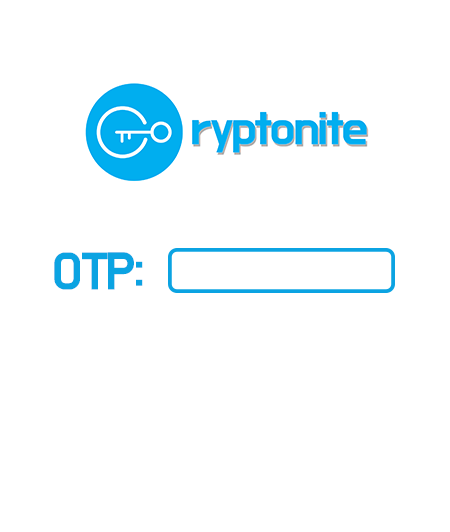
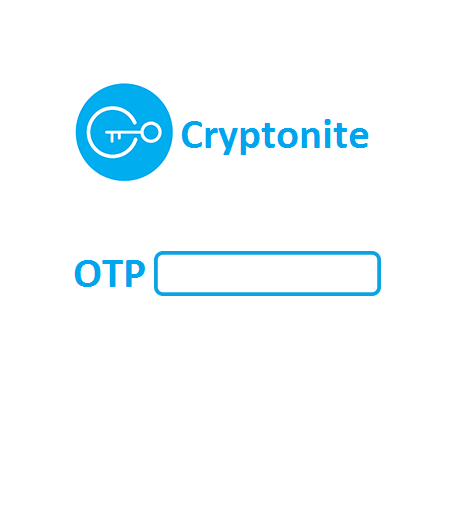
UI UPDATE

Changed region(s): [[0.1556, 0.1504, 0.84, 0.3609], [0.0933, 0.4511, 0.9022, 0.5714], [0.2489, 0.3308, 0.28, 0.3609]]

diff --git a/Cryptonite/src/Client/Client_Receive_OTP.java b/Cryptonite/src/Client/Client_Receive_OTP.java
@@ -73,7 +73,7 @@ public class Client_Receive_OTP extends JFrame{
         
         OTPField = new JTextField();
         OTPField.setText("Type otp number");
-        OTPField.setBounds(158, 247, 254, 50);
+        OTPField.setBounds(140, 244, 254, 50);
         OTPField.setForeground(Color.black);        
         OTPField.setFont(font);
         OTPField.setOpaque(false);
@@ -98,8 +98,8 @@ public class Client_Receive_OTP extends JFrame{
         layeredPane.add(OTPField);
         
         
-        Select = new JButton(new ImageIcon("img/Select.png"));		
-        Select.setPressedIcon(new ImageIcon("img/Selectp.png"));
+        Select = new JButton(new ImageIcon("img/select.png"));		
+        Select.setRolloverIcon(new ImageIcon("img/selectR.png"));
         Select.setBounds(324, 328, 80, 40);
         Select.setBorderPainted(false);
         Select.setFocusPainted(false);
@@ -112,8 +112,8 @@ public class Client_Receive_OTP extends JFrame{
 		 });
         layeredPane.add(Select);
         
-        Check = new JButton(new ImageIcon("img/Check.png"));		
-        Check.setPressedIcon(new ImageIcon("img/Checkp.png"));
+        Check = new JButton(new ImageIcon("img/DOWNLOAD.png"));		
+        Check.setRolloverIcon(new ImageIcon("img/DOWNLOADR.png"));
         Check.setBounds(116, 410, 80, 40);
         Check.setBorderPainted(false);
         Check.setFocusPainted(false);
@@ -126,8 +126,8 @@ public class Client_Receive_OTP extends JFrame{
 		 });
         layeredPane.add(Check);
         
-        Cancel = new JButton(new ImageIcon("img/Cancel.png"));		
-        Cancel.setPressedIcon(new ImageIcon("img/Cancelp.png"));
+        Cancel = new JButton(new ImageIcon("img/_cancel.png"));		
+        Cancel.setRolloverIcon(new ImageIcon("img/_cancelR.png"));
         Cancel.setBounds(254, 410, 80,40);
         Cancel.setBorderPainted(false);
         Cancel.setFocusPainted(false);

diff --git a/Cryptonite/src/Client/Client_Send_OTP.java b/Cryptonite/src/Client/Client_Send_OTP.java
@@ -35,7 +35,7 @@ public class Client_Send_OTP extends JFrame{
 	private BufferedImage img = null;
 
 	private Container container;
-	
+
 	private JButton Select;
 	private JButton Send;
 	private JButton Cancel;
@@ -101,6 +101,7 @@ public class Client_Send_OTP extends JFrame{
         Otpfield.setBorder(BorderFactory.createEmptyBorder());
         Otpfield.setHorizontalAlignment(JTextField.CENTER);
         layeredPane.add(Otpfield);*/
+     
         
         Select = new JButton(new ImageIcon("img/select.png"));		
         Select.setPressedIcon(new ImageIcon("img/selectp.png"));
@@ -187,7 +188,7 @@ public class Client_Send_OTP extends JFrame{
             if(_checkotp){
             	g.setColor(Color.BLACK);
             	g.setFont(_precondition_font);
-            	g.drawString(_cfs.getOTP(), 240, 275);
+            	g.drawString(_cfs.getOTP(), 240, 280);
             }
        }
    }

diff --git a/Cryptonite/src/Client/Client_Login.java b/Cryptonite/src/Client/Client_Login.java
@@ -288,7 +288,7 @@ public class Client_Login extends JFrame implements PacketRule {
 		_Resistor = new JButton(new ImageIcon("gui/register_bt.png"));
 		_Resistor.setFont(_fontjoin);
 		_Resistor.setForeground(Color.white);
-		_Resistor.setBounds(184, 480, 80, 37);
+		_Resistor.setBounds(188, 480, 80, 37);
 		_Resistor.setBorderPainted(false);
 		_Resistor.setFocusPainted(false);
 		_Resistor.setContentAreaFilled(false);

diff --git a/Cryptonite/src/Client/Client_Group_Main.java b/Cryptonite/src/Client/Client_Group_Main.java
@@ -246,8 +246,8 @@ public class Client_Group_Main extends JFrame{
         {
             g.drawImage(img, 0, 0, null);
             g.setColor(Color.BLACK);
-        	g.setFont(_precondition_font);
-        	g.drawString("Group Name : " + _gpName, 200, 50);
+        	g.setFont(fontbt);
+        	g.drawString("Group Name : " + _gpName, 230, 35);
         }
    }
 	private void showMessage(String title, String message) 

diff --git a/Cryptonite/src/Client/Client_FileShare_Send.java b/Cryptonite/src/Client/Client_FileShare_Send.java
@@ -89,7 +89,6 @@ public class Client_FileShare_Send implements PacketRule
 				_tempFile = new File(_filePathArray[i]);
 				_fileSizeArray[i] = _tempFile.length();
 			}
-			//sendFile();	// Temporary
 			_cfs.dispose();
 		}
 		catch(NullPointerException e)
